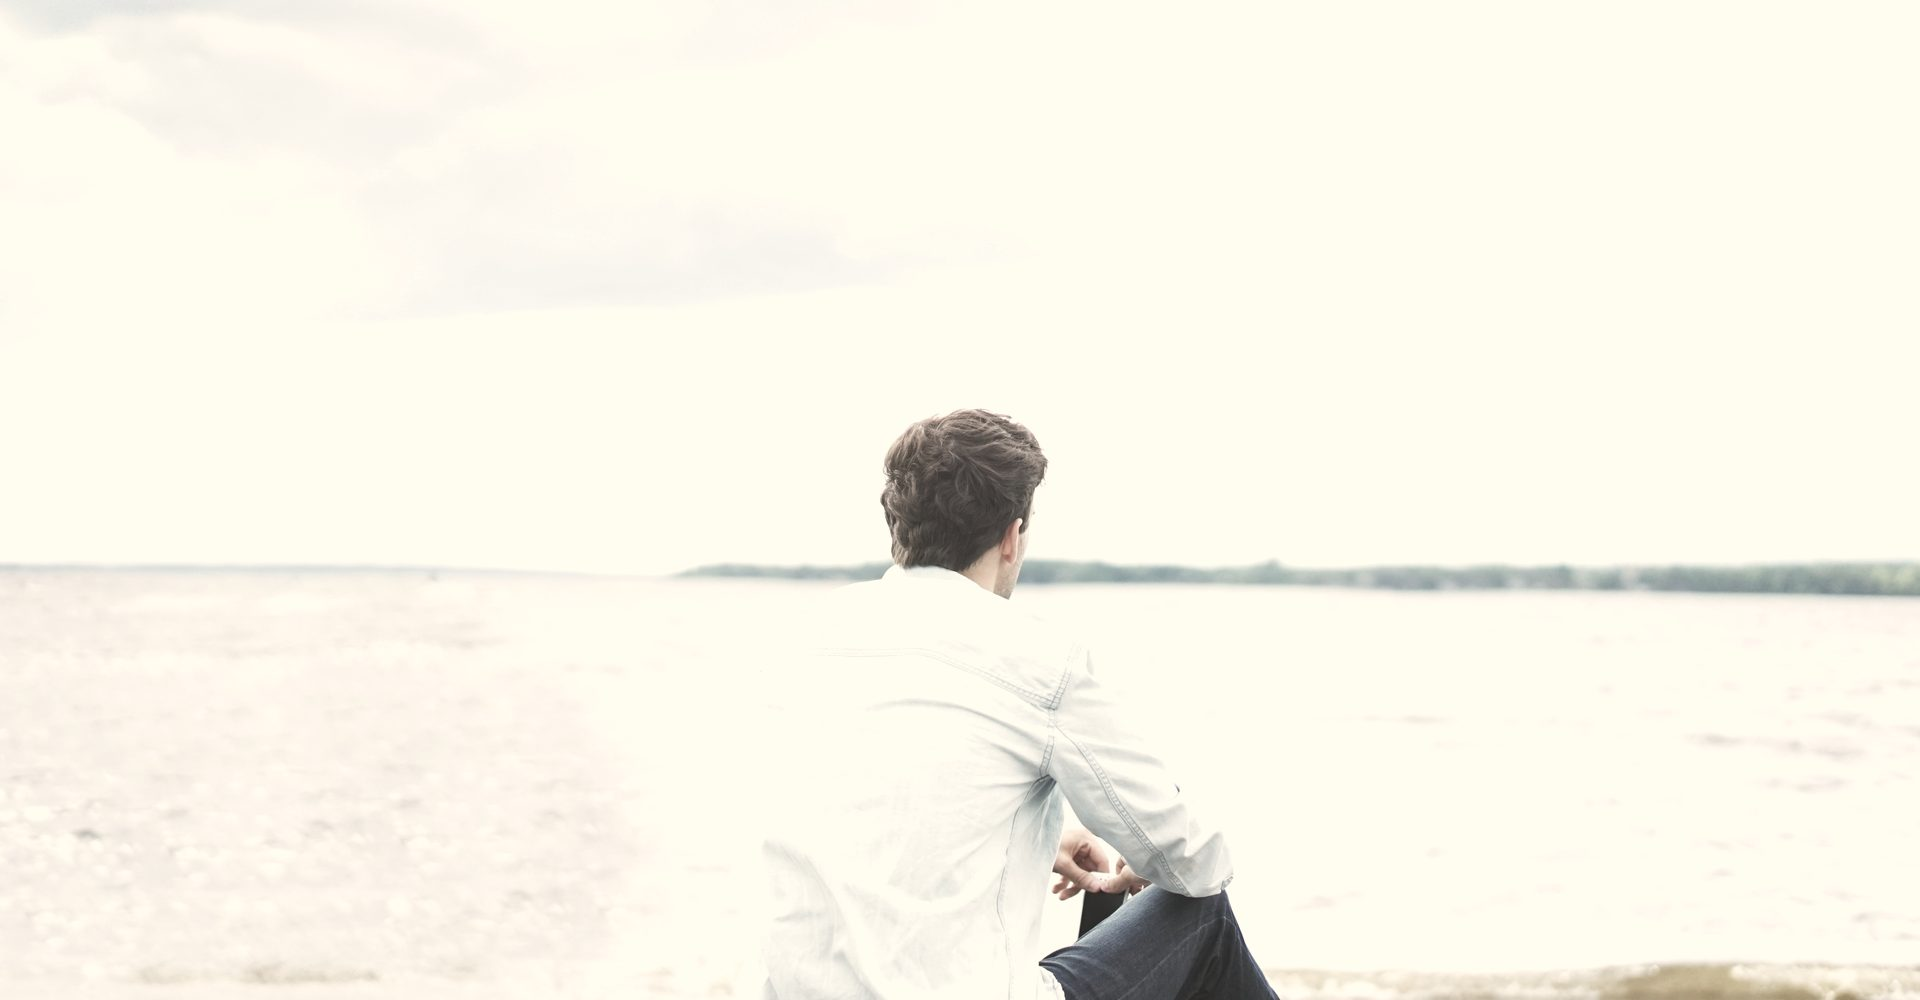
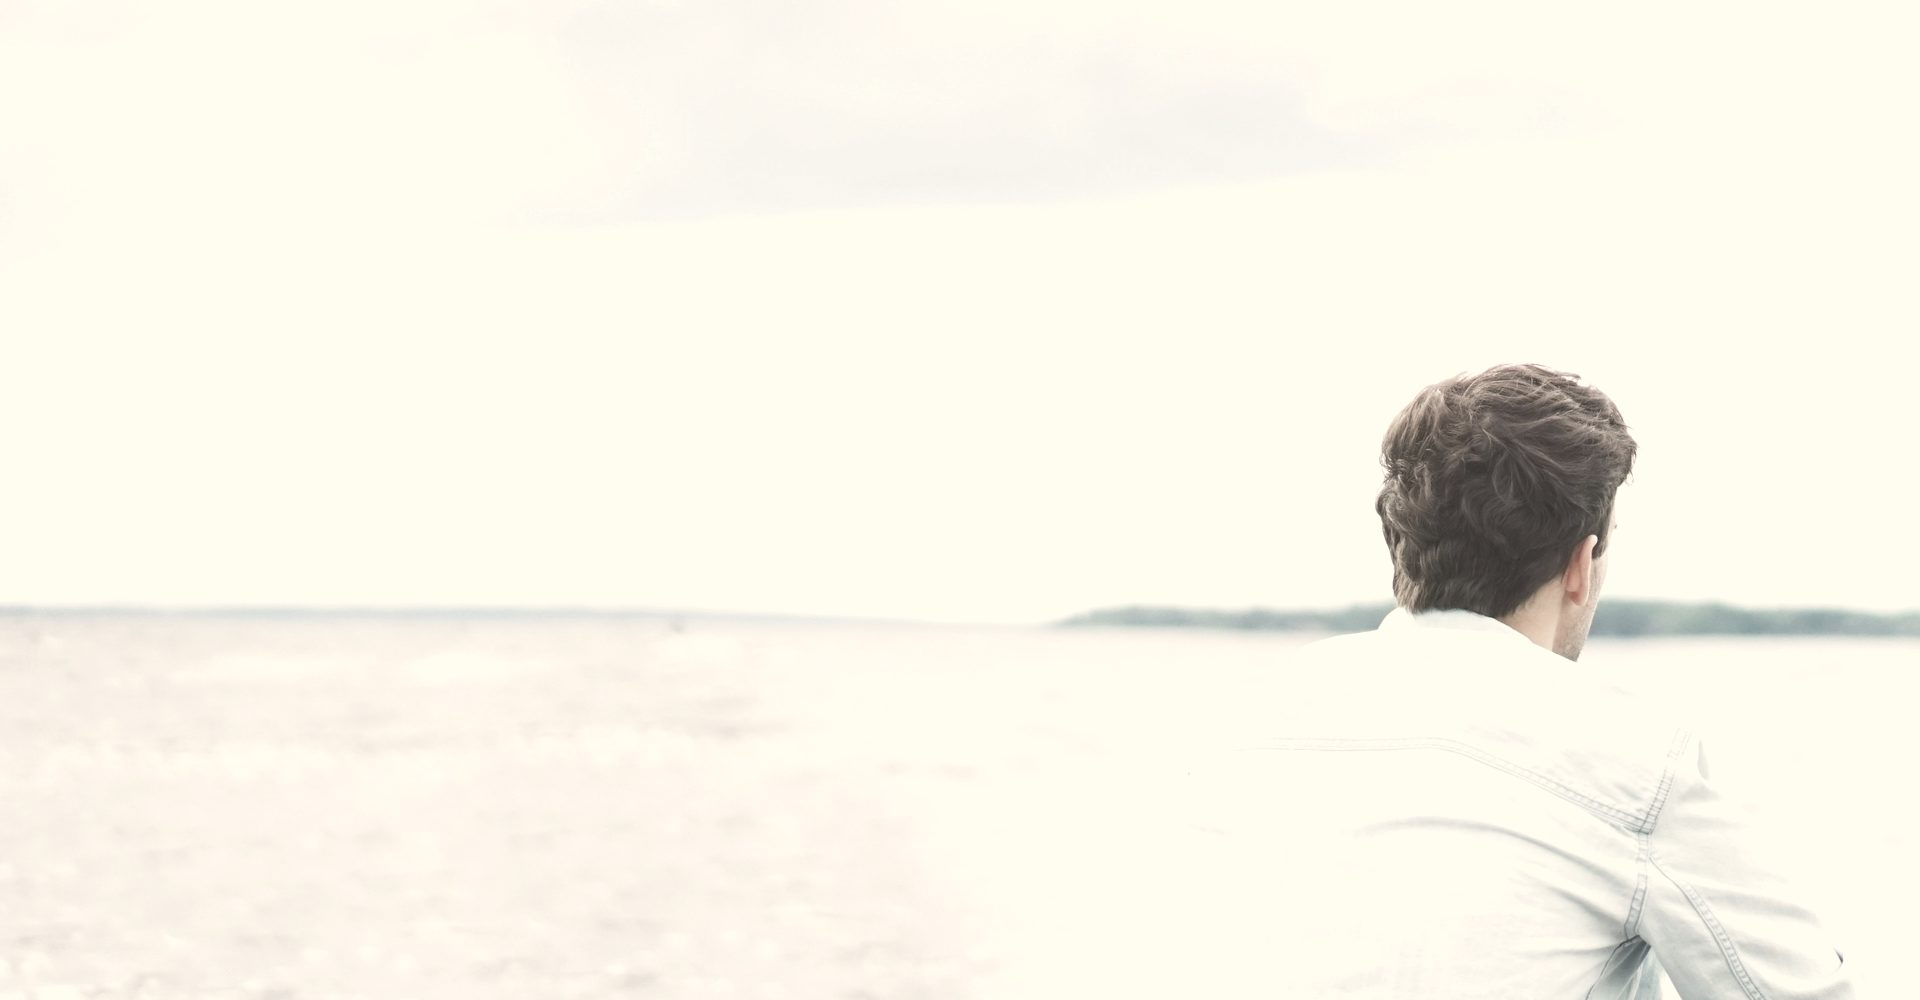
Muskarac desno u Siguran prostor heru (v=79)

diff --git a/style.css b/style.css
@@ -476,7 +476,7 @@ ul.ls.cols2{display:grid;grid-template-columns:1fr 1fr;gap:12px 34px;margin-bott
 @media (max-width:900px){.check2{grid-template-columns:1fr;gap:28px;}}
 .hero.hero-more.hero-sam{background-image:url('img/hero-samadhi.jpg?2');background-size:auto 145%;background-position:0 30%;}
 .fw .article{max-width:1140px;}
-.hero.hero-more.hero-sp{background-image:url('img/hero-sp.jpg');background-position:right 40%;}
+.hero.hero-more.hero-sp{background-image:url('img/hero-sp.jpg?2');background-position:right 40%;}
 @media (max-width:700px){
   .hero.hero-more.hero-sam,.hero.hero-more.hero-sp{background:radial-gradient(120% 140% at 75% 20%, #fffefc 0%, #faf5ee 50%, #f1e9dd 100%);}
 }

diff --git a/blog.html b/blog.html
@@ -7,7 +7,7 @@
 <link rel="preconnect" href="https://fonts.googleapis.com">
 <link rel="preconnect" href="https://fonts.gstatic.com" crossorigin>
 <link href="https://fonts.googleapis.com/css2?family=Lora:ital,wght@0,400;0,500;0,600;0,700;1,400&family=Open+Sans:wght@300;400;500;600;700&display=swap" rel="stylesheet">
-<link rel="stylesheet" href="style.css?v=78">
+<link rel="stylesheet" href="style.css?v=79">
 </head>
 <body class="fw">
 

diff --git a/faq.html b/faq.html
@@ -7,7 +7,7 @@
 <link rel="preconnect" href="https://fonts.googleapis.com">
 <link rel="preconnect" href="https://fonts.gstatic.com" crossorigin>
 <link href="https://fonts.googleapis.com/css2?family=Lora:ital,wght@0,400;0,500;0,600;0,700;1,400&family=Open+Sans:wght@300;400;500;600;700&display=swap" rel="stylesheet">
-<link rel="stylesheet" href="style.css?v=78">
+<link rel="stylesheet" href="style.css?v=79">
 </head>
 <body class="fw">
 

diff --git a/index.html b/index.html
@@ -7,7 +7,7 @@
 <link rel="preconnect" href="https://fonts.googleapis.com">
 <link rel="preconnect" href="https://fonts.gstatic.com" crossorigin>
 <link href="https://fonts.googleapis.com/css2?family=Lora:ital,wght@0,400;0,500;0,600;0,700;1,400&family=Open+Sans:wght@300;400;500;600;700&display=swap" rel="stylesheet">
-<link rel="stylesheet" href="style.css?v=78">
+<link rel="stylesheet" href="style.css?v=79">
 </head>
 <body class="fw">
 

diff --git a/kolacici.html b/kolacici.html
@@ -7,7 +7,7 @@
 <link rel="preconnect" href="https://fonts.googleapis.com">
 <link rel="preconnect" href="https://fonts.gstatic.com" crossorigin>
 <link href="https://fonts.googleapis.com/css2?family=Lora:ital,wght@0,400;0,500;0,600;0,700;1,400&family=Open+Sans:wght@300;400;500;600;700&display=swap" rel="stylesheet">
-<link rel="stylesheet" href="style.css?v=78">
+<link rel="stylesheet" href="style.css?v=79">
 </head>
 <body class="fw">
 

diff --git a/konstelacije.html b/konstelacije.html
@@ -7,7 +7,7 @@
 <link rel="preconnect" href="https://fonts.googleapis.com">
 <link rel="preconnect" href="https://fonts.gstatic.com" crossorigin>
 <link href="https://fonts.googleapis.com/css2?family=Lora:ital,wght@0,400;0,500;0,600;0,700;1,400&family=Open+Sans:wght@300;400;500;600;700&display=swap" rel="stylesheet">
-<link rel="stylesheet" href="style.css?v=78">
+<link rel="stylesheet" href="style.css?v=79">
 </head>
 <body class="fw">
 

diff --git a/kontakt.html b/kontakt.html
@@ -7,7 +7,7 @@
 <link rel="preconnect" href="https://fonts.googleapis.com">
 <link rel="preconnect" href="https://fonts.gstatic.com" crossorigin>
 <link href="https://fonts.googleapis.com/css2?family=Lora:ital,wght@0,400;0,500;0,600;0,700;1,400&family=Open+Sans:wght@300;400;500;600;700&display=swap" rel="stylesheet">
-<link rel="stylesheet" href="style.css?v=78">
+<link rel="stylesheet" href="style.css?v=79">
 </head>
 <body class="fw">
 

diff --git a/omeni.html b/omeni.html
@@ -7,7 +7,7 @@
 <link rel="preconnect" href="https://fonts.googleapis.com">
 <link rel="preconnect" href="https://fonts.gstatic.com" crossorigin>
 <link href="https://fonts.googleapis.com/css2?family=Lora:ital,wght@0,400;0,500;0,600;0,700;1,400&family=Open+Sans:wght@300;400;500;600;700&display=swap" rel="stylesheet">
-<link rel="stylesheet" href="style.css?v=78">
+<link rel="stylesheet" href="style.css?v=79">
 </head>
 <body class="fw">
 

diff --git a/portal.html b/portal.html
@@ -7,7 +7,7 @@
 <link rel="preconnect" href="https://fonts.googleapis.com">
 <link rel="preconnect" href="https://fonts.gstatic.com" crossorigin>
 <link href="https://fonts.googleapis.com/css2?family=Lora:ital,wght@0,400;0,500;0,600;0,700;1,400&family=Open+Sans:wght@300;400;500;600;700&display=swap" rel="stylesheet">
-<link rel="stylesheet" href="style.css?v=78">
+<link rel="stylesheet" href="style.css?v=79">
 </head>
 <body class="fw">
 

diff --git a/post.html b/post.html
@@ -7,7 +7,7 @@
 <link rel="preconnect" href="https://fonts.googleapis.com">
 <link rel="preconnect" href="https://fonts.gstatic.com" crossorigin>
 <link href="https://fonts.googleapis.com/css2?family=Lora:ital,wght@0,400;0,500;0,600;0,700;1,400&family=Open+Sans:wght@300;400;500;600;700&display=swap" rel="stylesheet">
-<link rel="stylesheet" href="style.css?v=78">
+<link rel="stylesheet" href="style.css?v=79">
 </head>
 <body class="fw">
 

diff --git a/privatnost.html b/privatnost.html
@@ -7,7 +7,7 @@
 <link rel="preconnect" href="https://fonts.googleapis.com">
 <link rel="preconnect" href="https://fonts.gstatic.com" crossorigin>
 <link href="https://fonts.googleapis.com/css2?family=Lora:ital,wght@0,400;0,500;0,600;0,700;1,400&family=Open+Sans:wght@300;400;500;600;700&display=swap" rel="stylesheet">
-<link rel="stylesheet" href="style.css?v=78">
+<link rel="stylesheet" href="style.css?v=79">
 </head>
 <body class="fw">
 

diff --git a/programi.html b/programi.html
@@ -7,7 +7,7 @@
 <link rel="preconnect" href="https://fonts.googleapis.com">
 <link rel="preconnect" href="https://fonts.gstatic.com" crossorigin>
 <link href="https://fonts.googleapis.com/css2?family=Lora:ital,wght@0,400;0,500;0,600;0,700;1,400&family=Open+Sans:wght@300;400;500;600;700&display=swap" rel="stylesheet">
-<link rel="stylesheet" href="style.css?v=78">
+<link rel="stylesheet" href="style.css?v=79">
 </head>
 <body class="fw">
 
